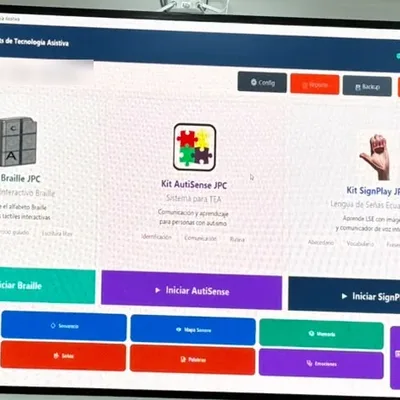
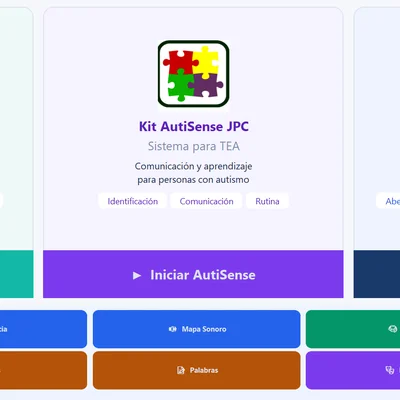
Kits Interactivos: captura completa de la plataforma
La página muestra la captura entera (tres kits, juegos terapéuticos y
botones) en lugar del recorte cuadrado; el ícono de la portada pasa a
ser un recorte nítido de la misma captura.

diff --git a/src/app/pages/servicio/servicio.component.html b/src/app/pages/servicio/servicio.component.html
@@ -2,8 +2,10 @@
   @if (servicio(); as s) {
     <section class="bg-gradient-to-br from-[#0A1630] via-[#0b2a6b] to-[#0057D9] text-white">
       <div class="max-w-5xl mx-auto px-6 pt-16 pb-28 flex flex-col md:flex-row items-center gap-10">
-        <img [src]="s.imagen" [alt]="s.titulo" width="160" height="160"
-             class="w-32 h-32 md:w-40 md:h-40 rounded-[2rem] shadow-2xl border-4 border-white/20 object-cover shrink-0" />
+        @if (!s.captura) {
+          <img [src]="s.imagen" [alt]="s.titulo" width="160" height="160"
+               class="w-32 h-32 md:w-40 md:h-40 rounded-[2rem] shadow-2xl border-4 border-white/20 object-cover shrink-0" />
+        }
         <div class="text-center md:text-left">
           <span class="inline-block bg-white/20 border border-white/30 rounded-full px-4 py-1 text-xs font-bold uppercase tracking-widest mb-4">
             {{ s.etiqueta }}
@@ -12,6 +14,12 @@
           <p class="text-lg text-white/90 font-medium leading-relaxed max-w-2xl">{{ s.resumen }}</p>
         </div>
       </div>
+      @if (s.captura) {
+        <div class="max-w-5xl mx-auto px-6 -mt-16 pb-28">
+          <img [src]="s.captura" [alt]="'Captura de ' + s.titulo" width="1400" height="763"
+               class="w-full h-auto rounded-3xl shadow-2xl border-4 border-white/20 bg-white" />
+        </div>
+      }
     </section>
 
     <section class="max-w-6xl mx-auto px-4 -mt-16 grid grid-cols-1 md:grid-cols-3 gap-6 relative z-10">

diff --git a/src/app/pages/servicio/servicios.data.ts b/src/app/pages/servicio/servicios.data.ts
@@ -8,6 +8,8 @@ export interface Servicio {
   titulo: string;
   etiqueta: string;
   imagen: string;
+  /** Captura ancha que se muestra completa arriba de la página (en lugar del ícono cuadrado). */
+  captura?: string;
   resumen: string;
   puntos: { icono: string; titulo: string; texto: string }[];
   dirigidoA: string[];
@@ -48,6 +50,7 @@ export const SERVICIOS: Servicio[] = [
     titulo: 'Plataforma de Kits Interactivos',
     etiqueta: 'Educación inclusiva',
     imagen: 'assets/imagenes/servicios/foto-kits-interactivos.webp',
+    captura: 'assets/imagenes/servicios/captura-kits-interactivos.webp',
     resumen:
       'Kits educativos físicos conectados a una plataforma de software que guía cada actividad con voz e imagen. ' +
       'Nacieron con el Kit Braille para acompañar la alfabetización de personas con discapacidad visual.',
